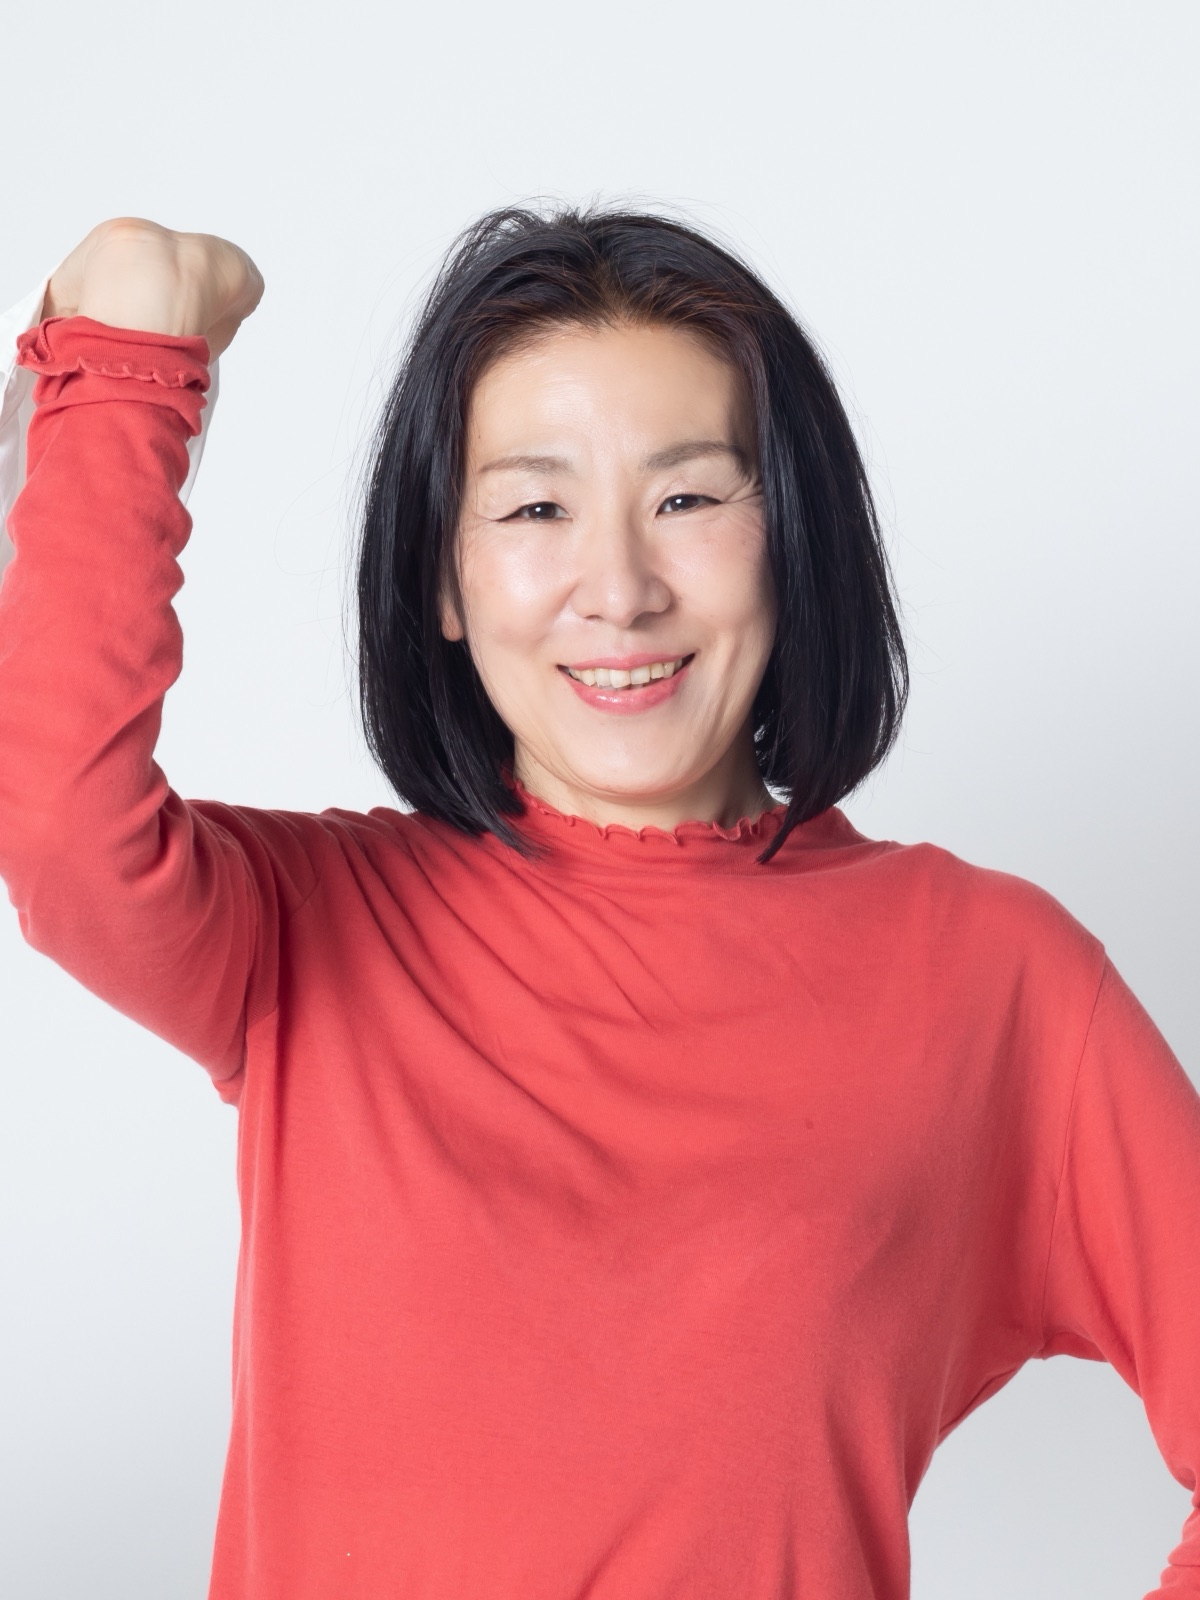
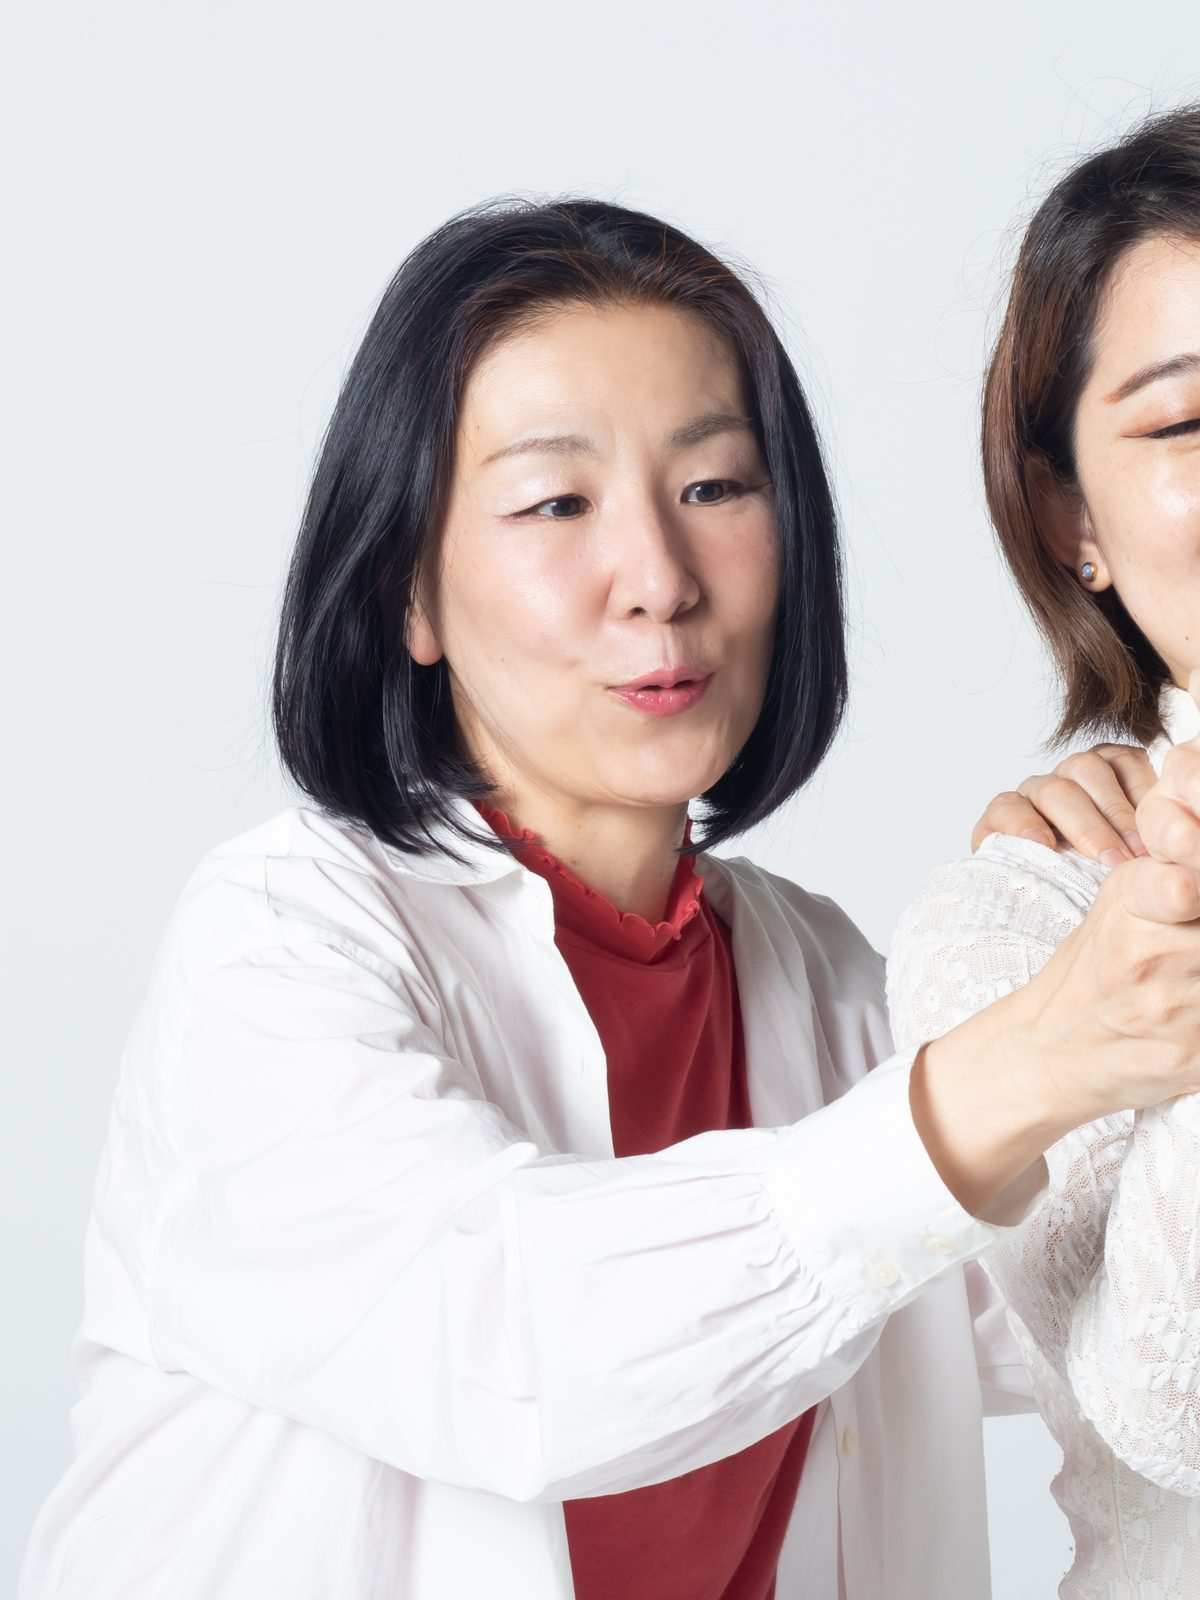
はじめましての写真を施術シーンに差し替え
トップの表紙と同じ写真だったため、二人で施術している写真に変更。
じゅんじゅんが中心に来る位置で3:4に切り取り。

diff --git a/about.html b/about.html
@@ -63,7 +63,7 @@
 ================================================ -->
 <section class="about-intro fade">
   <div class="about-photo">
-    <img src="images/profile.jpg?v=3" alt="Junko">
+    <img src="images/profile.jpg?v=4" alt="Junko">
   </div>
   <div class="about-name">
     <p class="about-script">Junko</p>
